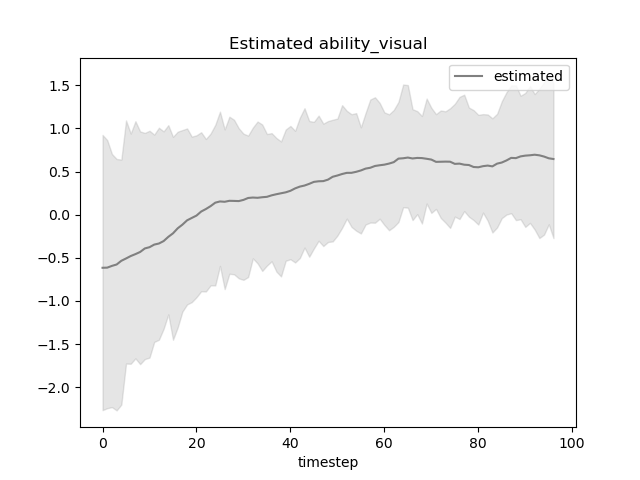
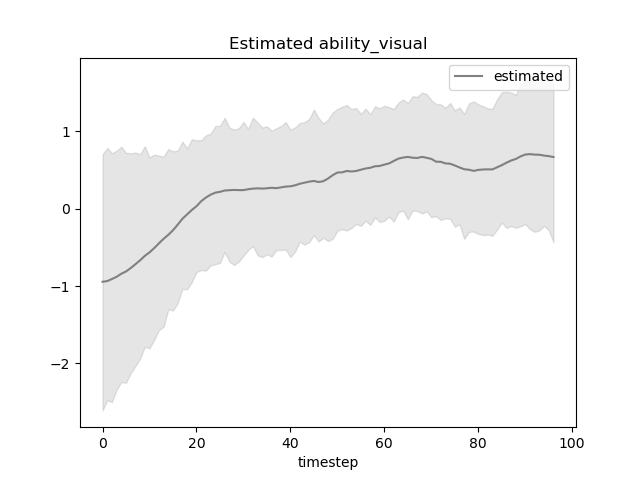
extra samples for accuracy

diff --git a/measurement_layout_AAIO_test.py b/measurement_layout_AAIO_test.py
@@ -122,7 +122,7 @@ if __name__ == "__main__":
 
 
     with m:
-        inference_data = pm.sample(100, target_accept=0.95, cores=2)
+        inference_data = pm.sample(500, target_accept=0.95, cores=2)
         
     if test_synthetic:
         final_str = "_test.png"
